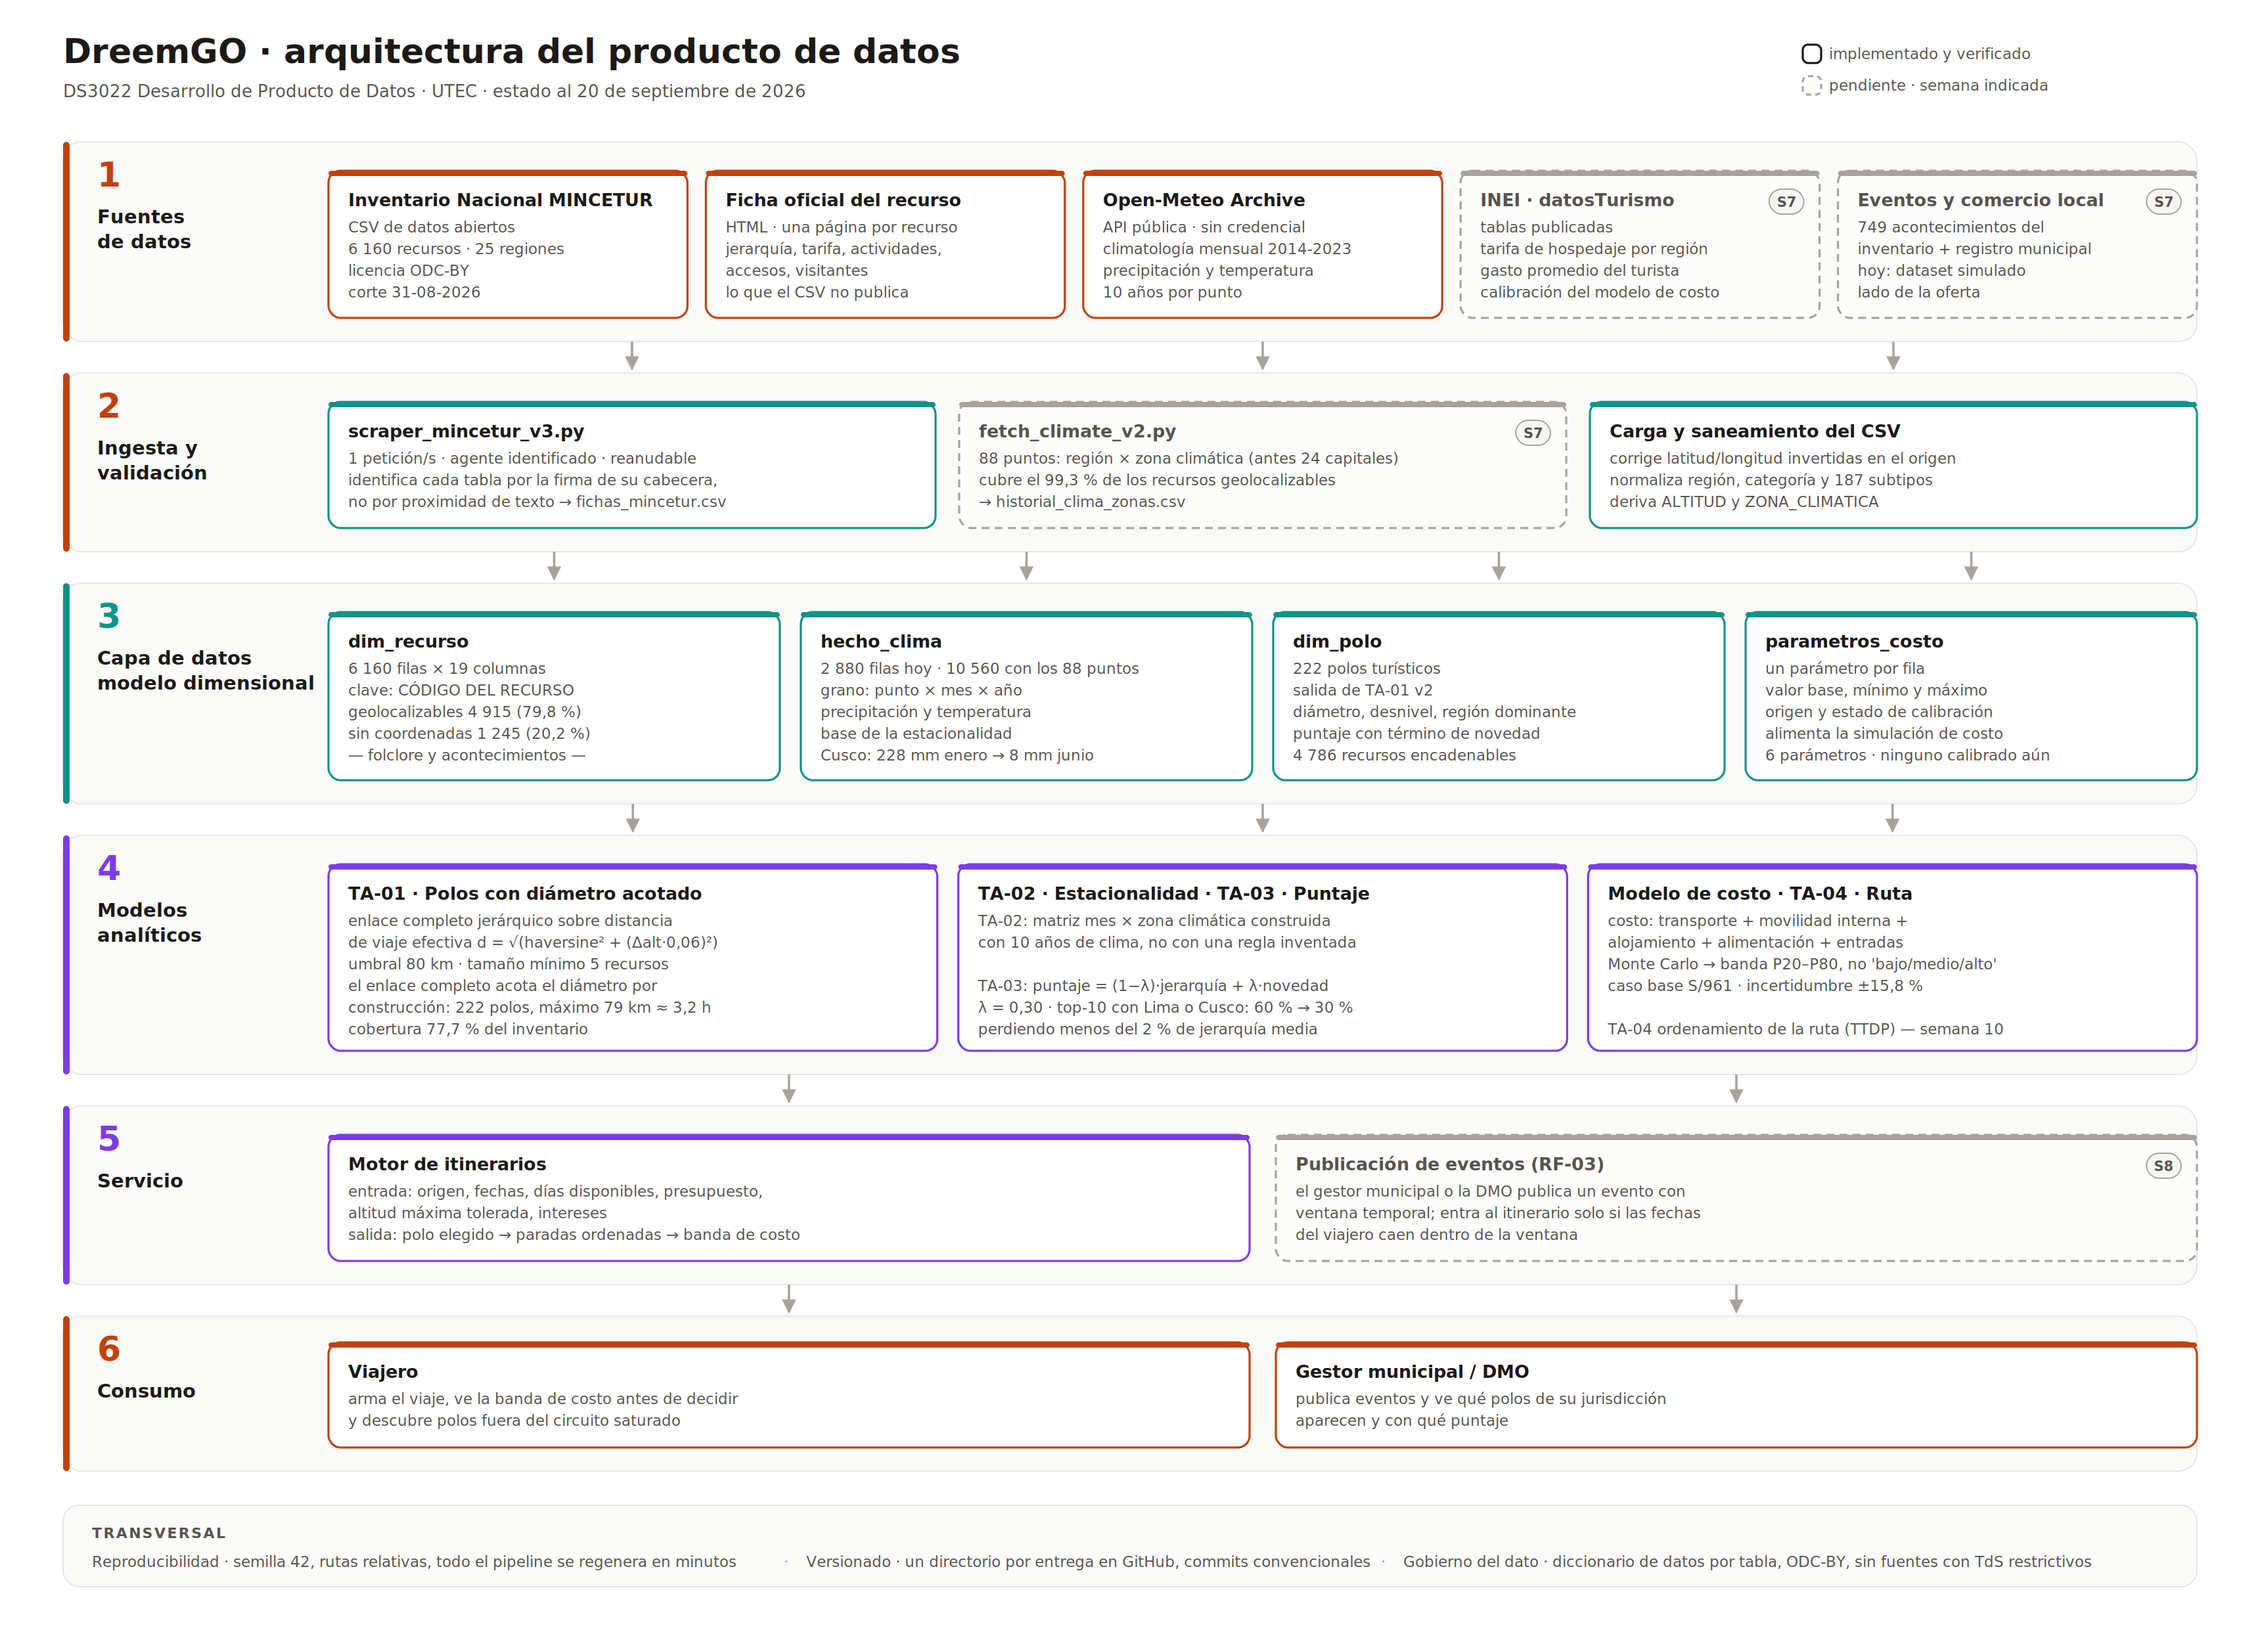
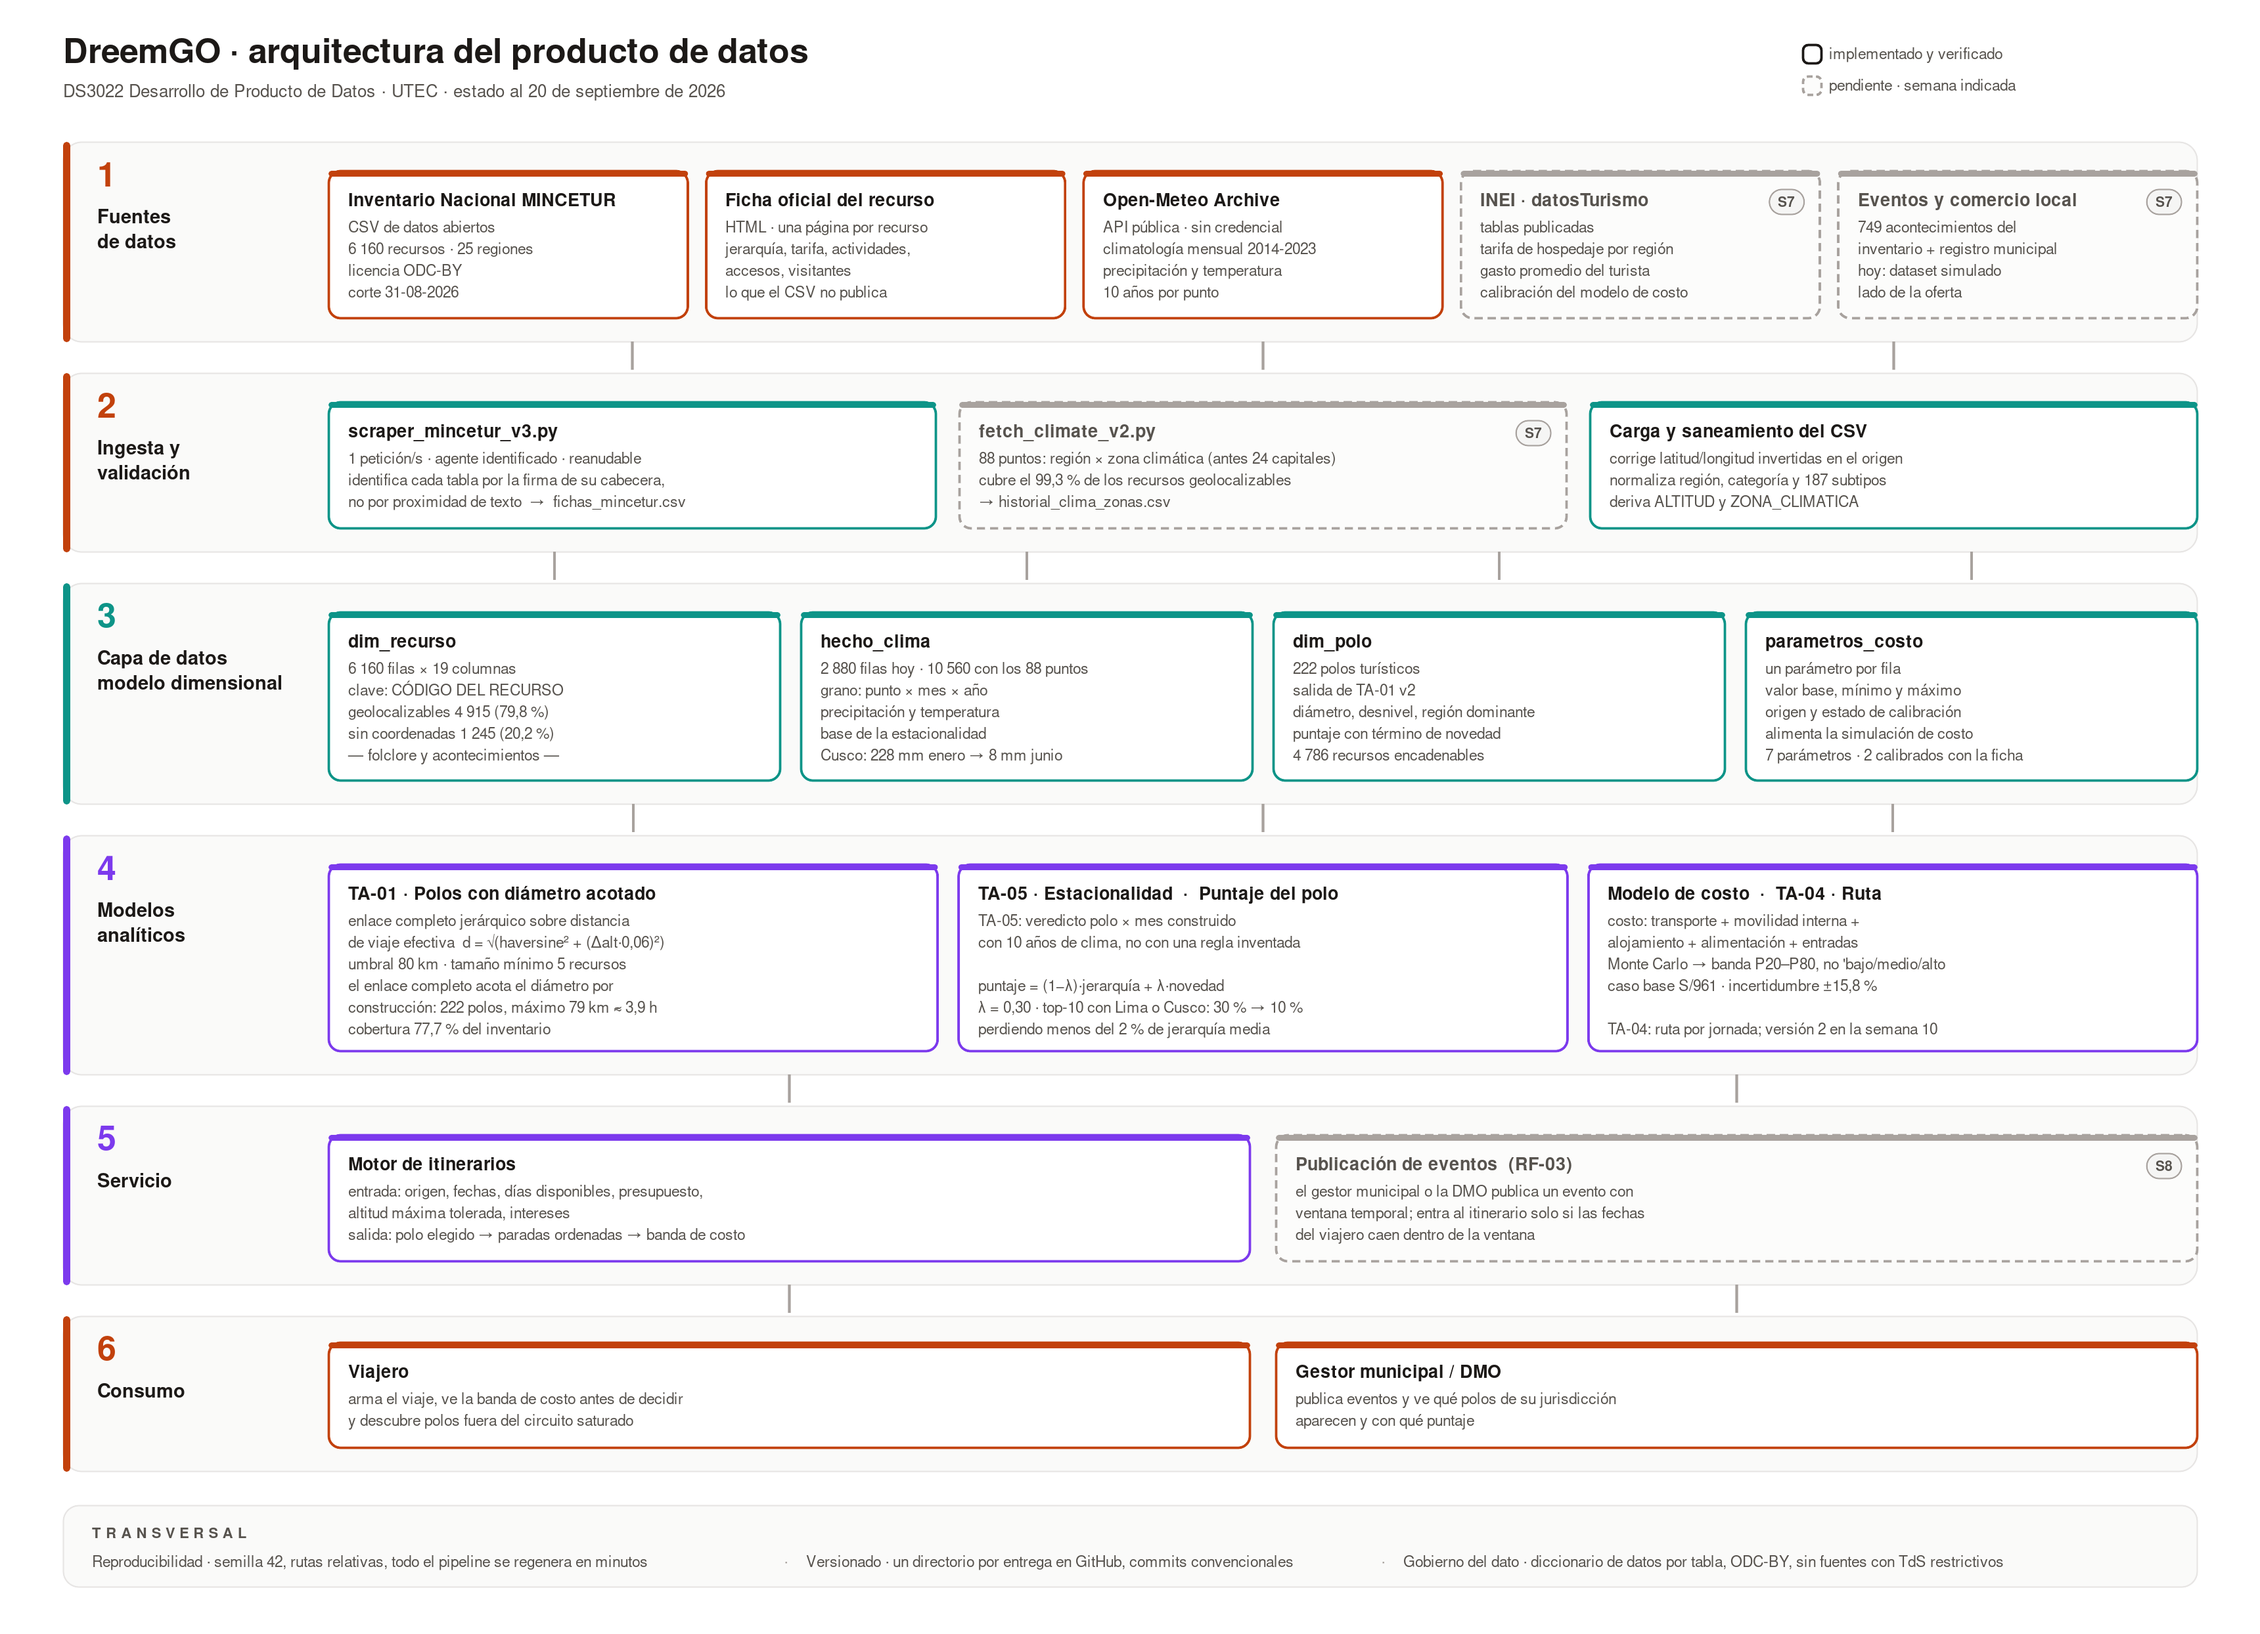
docs(week07): corregir el diagrama de arquitectura

diff --git a/deliveries/week07/code/arquitectura_dreemgo.py b/deliveries/week07/code/arquitectura_dreemgo.py
@@ -174,7 +174,7 @@ caja(cols[3][0], Y + 22, cols[3][1], 128,
      "parametros_costo",
      ["un parámetro por fila", "valor base, mínimo y máximo",
       "origen y estado de calibración", "alimenta la simulación de costo",
-      "6 parámetros · ninguno calibrado aún"], TEAL)
+      "7 parámetros · 2 calibrados con la ficha"], TEAL)
 
 
 # ───────────────────────── 4 · modelos ─────────────────────────
@@ -188,15 +188,15 @@ caja(cols[0][0], Y + 22, cols[0][1], 142,
       "de viaje efectiva  d = √(haversine² + (Δalt·0,06)²)",
       "umbral 80 km · tamaño mínimo 5 recursos",
       "el enlace completo acota el diámetro por",
-      "construcción: 222 polos, máximo 79 km ≈ 3,2 h",
+      "construcción: 222 polos, máximo 79 km ≈ 3,9 h",
       "cobertura 77,7 % del inventario"], MORADO)
 caja(cols[1][0], Y + 22, cols[1][1], 142,
-     "TA-02 · Estacionalidad  ·  TA-03 · Puntaje",
-     ["TA-02: matriz mes × zona climática construida",
+     "TA-05 · Estacionalidad  ·  Puntaje del polo",
+     ["TA-05: veredicto polo × mes construido",
       "con 10 años de clima, no con una regla inventada",
       "",
-      "TA-03: puntaje = (1−λ)·jerarquía + λ·novedad",
-      "λ = 0,30 · top-10 con Lima o Cusco: 60 % → 30 %",
+      "puntaje = (1−λ)·jerarquía + λ·novedad",
+      "λ = 0,30 · top-10 con Lima o Cusco: 30 % → 10 %",
       "perdiendo menos del 2 % de jerarquía media"], MORADO)
 caja(cols[2][0], Y + 22, cols[2][1], 142,
      "Modelo de costo  ·  TA-04 · Ruta",
@@ -205,7 +205,7 @@ caja(cols[2][0], Y + 22, cols[2][1], 142,
       "Monte Carlo → banda P20–P80, no 'bajo/medio/alto'",
       "caso base S/961 · incertidumbre ±15,8 %",
       "",
-      "TA-04 ordenamiento de la ruta (TTDP) — semana 10"], MORADO)
+      "TA-04: ruta por jornada; versión 2 en la semana 10"], MORADO)
 
 
 # ───────────────────────── 5 · servicio ─────────────────────────
